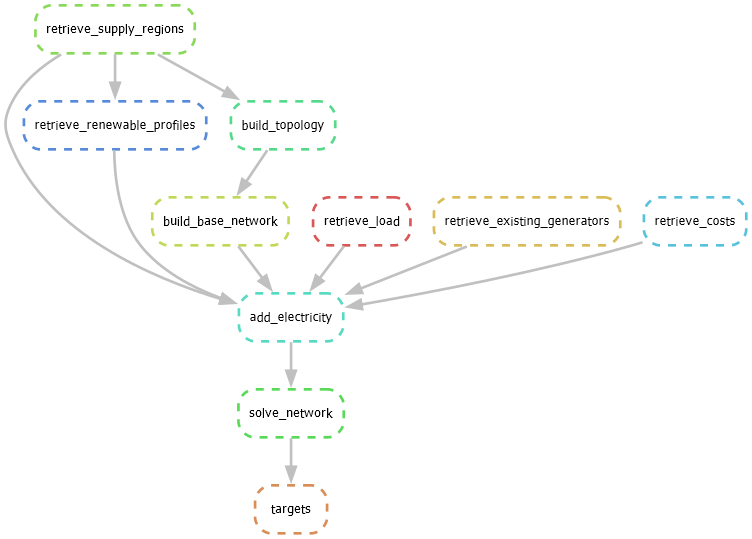
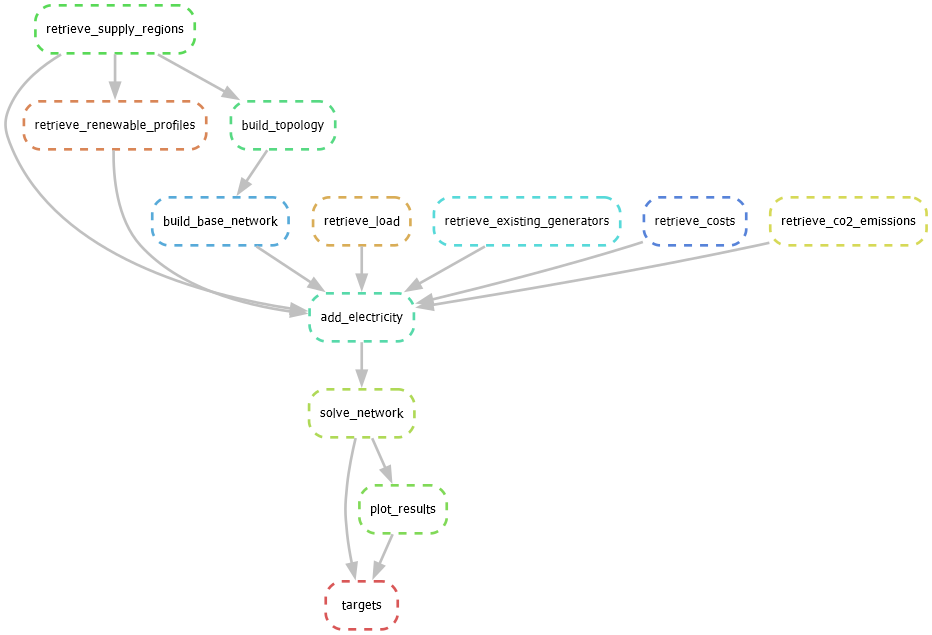
updates dag, adds aggregated build years

diff --git a/scripts/add_electricity.py b/scripts/add_electricity.py
@@ -8,6 +8,9 @@ import pypsa
 
 model_years = np.array(snakemake.config['model_years']).astype('int')
 resolution = int(snakemake.config['time_res'])
+scale = snakemake.config['geo_res']
+idx_opts = {"rto":"balancing_authority_code",
+            "county":"county"}
 
 BUILD_YEAR = 2025  # a universal build year place holder
 
@@ -54,9 +57,15 @@ def load_costs():
 
 def load_existing_generators():
     generators = pd.read_csv(snakemake.input.generators, 
-                             index_col='balancing_authority_code')
+                             index_col=idx_opts[scale])
 
     return generators
+
+def load_build_years():
+    build_years = pd.read_csv(snakemake.input.build_years,
+                              index_col=idx_opts[scale])
+    
+    return build_years
     
     
 def linear_growth(init_value, start_year, growth_rate, end_year=2050):
@@ -140,18 +149,14 @@ def add_carriers(n, costs, emissions):
               color=snakemake.config['carrier_colors'][carrier])
     return
 
-def attach_renewables(n, costs, generators):
+def attach_renewables(n, costs, generators, build_years):
     carriers = ['Wind','Solar']
     wind_profile = pd.read_csv(snakemake.input.wind_profile, parse_dates=True, index_col=0)
     wind_profile = wind_profile.resample(f"{snakemake.config['time_res']}h").mean().dropna(axis=0)
-    # wind_profile = pd.concat([wind_profile.loc[str(year)] for year in model_years])
-    # wind_profile = wind_profile[:len(n.snapshots)]
     wind_profile.set_index(n.snapshots, inplace=True)
     
     solar_profile = pd.read_csv(snakemake.input.solar_profile, parse_dates=True, index_col=0)
     solar_profile = solar_profile.resample(f"{snakemake.config['time_res']}h").mean().dropna(axis=0)
-    # solar_profile = pd.concat([solar_profile.loc[str(year)] for year in model_years])
-    # solar_profile = solar_profile[:len(n.snapshots)]
     solar_profile.set_index(n.snapshots, inplace=True) 
      
     for bus in n.buses.index:
@@ -188,7 +193,7 @@ def attach_renewables(n, costs, generators):
     return 
 
 
-def attach_generators(n, costs, generators):
+def attach_generators(n, costs, generators, build_years):
     carriers = ['Natural Gas','Biomass','Coal','Nuclear','Petroleum']
     for bus in n.buses.index:
         for item in costs.itertuples():
@@ -250,7 +255,7 @@ def attach_generators(n, costs, generators):
     return
               
               
-def attach_storage(n, costs, generators):
+def attach_storage(n, costs, generators, build_years):
     carriers = ["Batteries"]
     for bus in n.buses.index:
         for item in costs.itertuples():
@@ -293,7 +298,7 @@ if __name__ == "__main__":
     costs.loc[costs['technology_alias']=='Solar', 'techdetail'] = 'Utility PV'
     
     generators = load_existing_generators()
-    
+    build_years = load_build_years()
     emissions = load_emissions()
     
     attach_load(n)
@@ -302,14 +307,19 @@ if __name__ == "__main__":
                  emissions=emissions)
     attach_renewables(n,
                       costs=costs,
-                      generators=generators)
+                      generators=generators,
+                      build_years=build_years
+                      )
     attach_generators(n, 
                       costs=costs, 
-                      generators=generators
+                      generators=generators,
+                      build_years=build_years
                       )   
     attach_storage(n,
                    costs=costs,
-                   generators=generators)
+                   generators=generators,
+                   build_years=build_years
+                   )
     
     # add co2 constraint    
     for y in model_years:

diff --git a/scripts/plot_results.py b/scripts/plot_results.py
@@ -94,6 +94,32 @@ def plot_emissions(n, time_res):
     return fig, ax
 
 
+def plot_active_units(n):
+    
+    fig, ax = plt.subplots(figsize=(12,8))
+    c = "Generator"
+    df = pd.concat(
+        {
+            period: n.get_active_assets(c, period) * n.df(c).p_nom_opt
+            for period in n.investment_periods
+        },
+        axis=1,
+    )
+    df = df.groupby(n.generators.carrier).sum()
+    df.T.plot.bar(
+        ax=ax,
+        stacked=True,
+        edgecolor="white",
+        width=1,
+        ylabel="Capacity",
+        xlabel="Investment Period",
+        rot=0,
+        figsize=(10, 5),
+    )
+    plt.tight_layout()
+
+    return fig, ax
+
 if __name__ == "__main__":
     
     n = pypsa.Network(snakemake.input.solved_network)
@@ -107,3 +133,6 @@ if __name__ == "__main__":
     
     fig, ax = plot_emissions(n, float(snakemake.config['time_res']))
     plt.savefig(snakemake.output.emissions_figure)
+    
+    fig, ax = plot_active_units(n)
+    plt.savefig(snakemake.output.active_units_figure)

diff --git a/scripts/retrieve_generators.py b/scripts/retrieve_generators.py
@@ -126,9 +126,19 @@ if __name__ == "__main__":
     
     gdf.to_csv(snakemake.output.generators)
     
+    gdf['build_year'] = pd.to_datetime(gdf['operating-year-month']).dt.year
+    
     scale = snakemake.config['geo_res']
     idx_opts = {"rto":"balancing_authority_code",
                 "county":"county"}
+    
+        
+    gen_build_year = gdf.pivot_table(index=idx_opts[scale],
+                                    columns='technology',
+                                    values='build_year',
+                                    aggfunc='mean').dropna(axis=1).astype('int')
+
+    gen_build_year.to_csv(snakemake.output.build_year)
     
     gen_agg = gdf.pivot_table(index=idx_opts[scale],
                                 columns='technology',
